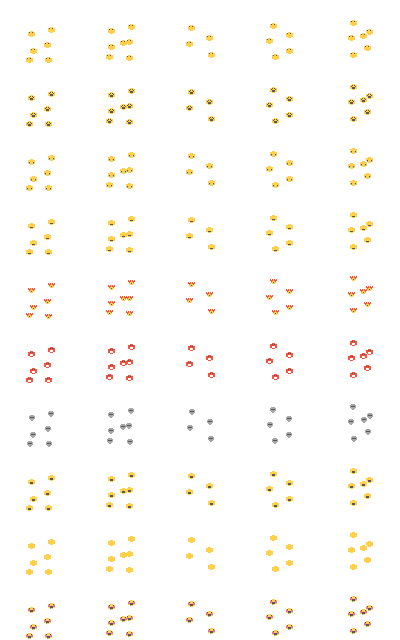
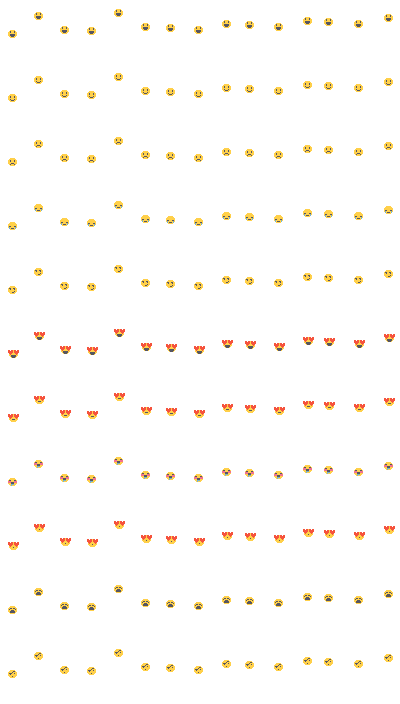
Save the yellow emotion faces above the farmer.
Each distinct face from the sheet is tied to its emotion, drawn small and see-through so it floats above his head instead of covering him.

diff --git a/src/game/draw.ts b/src/game/draw.ts
@@ -1317,17 +1317,49 @@ function drawSpell(ctx: CanvasRenderingContext2D, sheets: Sheets, s: GameState):
   void s;
 }
 
-const FACE_FX: Partial<Record<GameState["life"]["face"], number>> = {
-  happy: 0,
-  sad: 1,
-  tired: 2,
-  need: 3,
-  angry: 4,
-  love: 5,
-  cry: 6,
-  wow: 7,
-  cool: 8,
+const FACE_FX: Partial<Record<GameState["life"]["face"], number[]>> = {
+  happy: [0, 1],
+  sad: [2],
+  tired: [3],
+  need: [4],
+  cry: [4],
+  angry: [5],
+  love: [6, 7, 8],
+  wow: [9],
+  cool: [10],
 };
+
+function blitAether(
+  ctx: CanvasRenderingContext2D,
+  img: CanvasImageSource,
+  sx: number,
+  sy: number,
+  sw: number,
+  sh: number,
+  x: number,
+  y: number,
+  scale: number,
+  footX: number,
+  footY: number,
+  alpha: number,
+) {
+  if (img instanceof HTMLImageElement && img.naturalWidth <= 0) return;
+  const dw = Math.max(1, Math.round(sw * scale));
+  const dh = Math.max(1, Math.round(sh * scale));
+  const ox = Math.round(-footX * scale);
+  const oy = Math.round(-footY * scale);
+  ctx.save();
+  ctx.imageSmoothingEnabled = false;
+  ctx.translate(Math.round(x), Math.round(y));
+  ctx.globalAlpha = alpha * 0.28;
+  ctx.drawImage(img, sx, sy, sw, sh, ox - 1, oy, dw, dh);
+  ctx.drawImage(img, sx, sy, sw, sh, ox + 1, oy, dw, dh);
+  ctx.drawImage(img, sx, sy, sw, sh, ox, oy - 1, dw, dh);
+  ctx.drawImage(img, sx, sy, sw, sh, ox, oy + 1, dw, dh);
+  ctx.globalAlpha = alpha;
+  ctx.drawImage(img, sx, sy, sw, sh, ox, oy, dw, dh);
+  ctx.restore();
+}
 
 function drawEffect(ctx: CanvasRenderingContext2D, sheets: Sheets, s: GameState) {
   const life = s.life;
@@ -1336,8 +1368,11 @@ function drawEffect(ctx: CanvasRenderingContext2D, sheets: Sheets, s: GameState)
   if (s.downed || life?.face === "ill") key = "fxDebuff";
   else if (life && life.emote > 0 && life.face === "heart") key = "fxHearts";
   else if (faceRow != null && sheets.fxFaces && sheets.fxFaces.width >= 400) {
+    const rows = faceRow;
     const frame = Math.floor(s.clock * 8) % 5;
-    blit(ctx, sheets.fxFaces, frame * 80, faceRow * 64, 80, 64, s.x, s.y - 16, 0.4, false, 40, 40);
+    const row = rows[Math.floor(s.clock / 1.8) % rows.length] ?? rows[0]!;
+    const breath = 0.55 + 0.2 * Math.sin(s.clock * 2.2);
+    blitAether(ctx, sheets.fxFaces, frame * 80, row * 64, 80, 64, s.x, s.y - 36, 0.4, 40, 40, breath);
     return;
   } else if (life && life.emote > 0 && life.face === "tired") key = "fxTired";
   else if (life && life.emote > 0 && (life.face === "need" || life.face === "sad" || life.face === "angry" || life.face === "cry")) key = "fxDebuff";

diff --git a/src/game/assets.ts b/src/game/assets.ts
@@ -1,5 +1,5 @@
 /** Bump this when the pictures change so phones and computers drop the old files. */
-export const ART = "20260928face2";
+export const ART = "20260928face6";
 
 function art(path: string): string {
   return `${path}?v=${ART}`;
